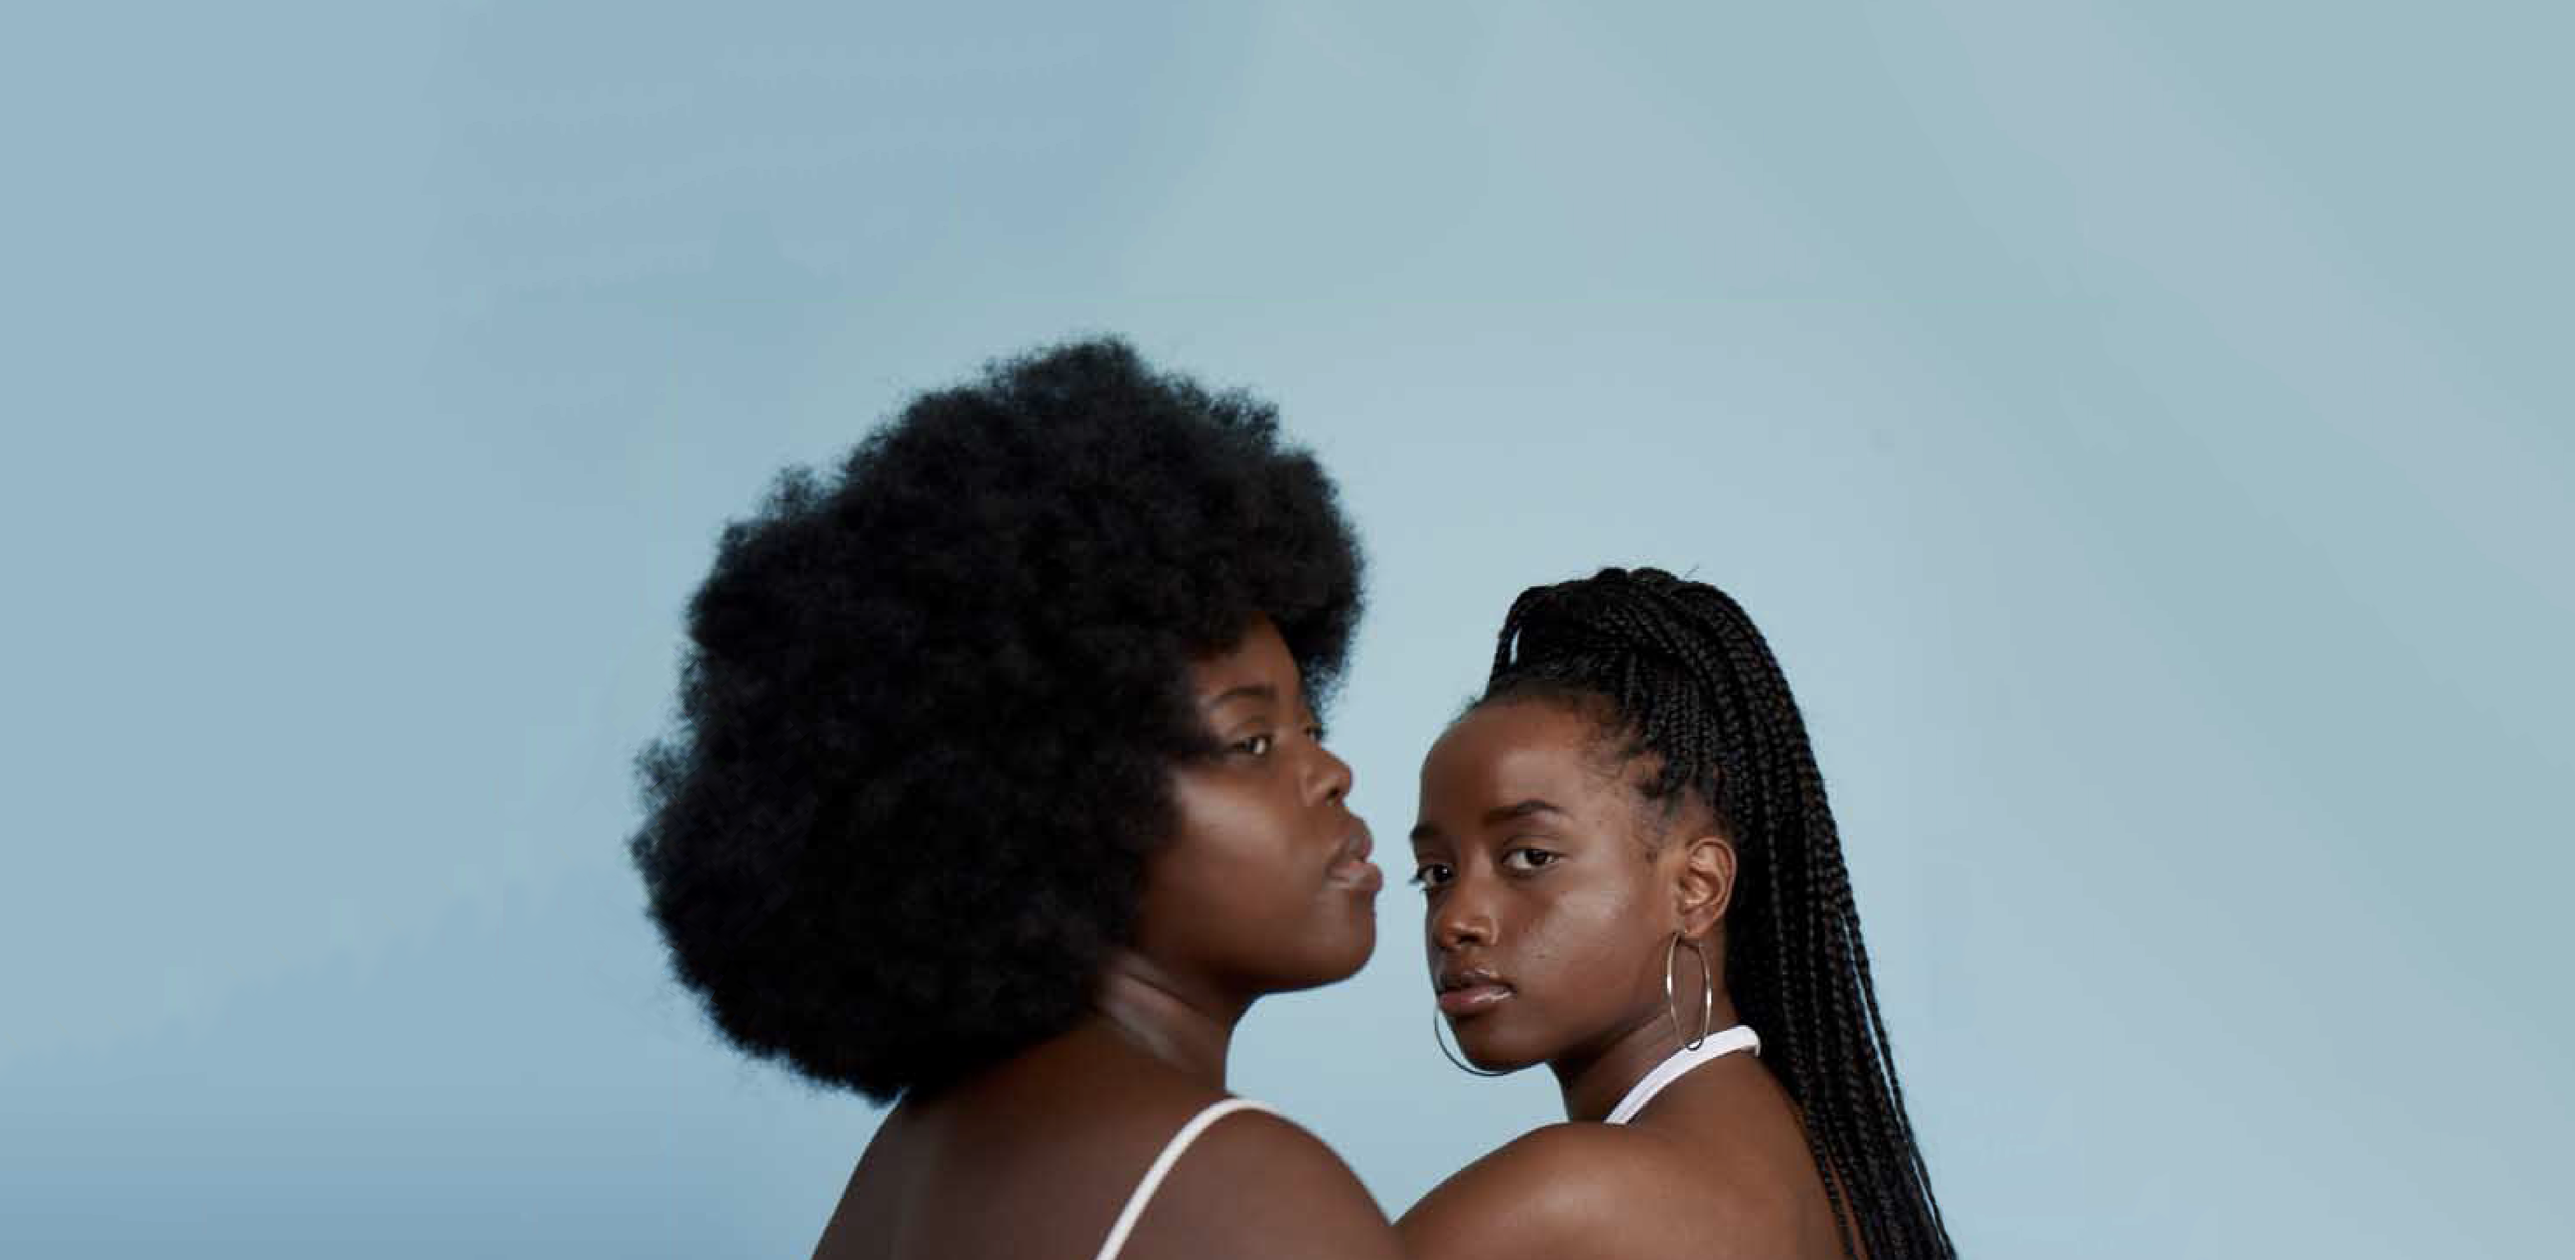
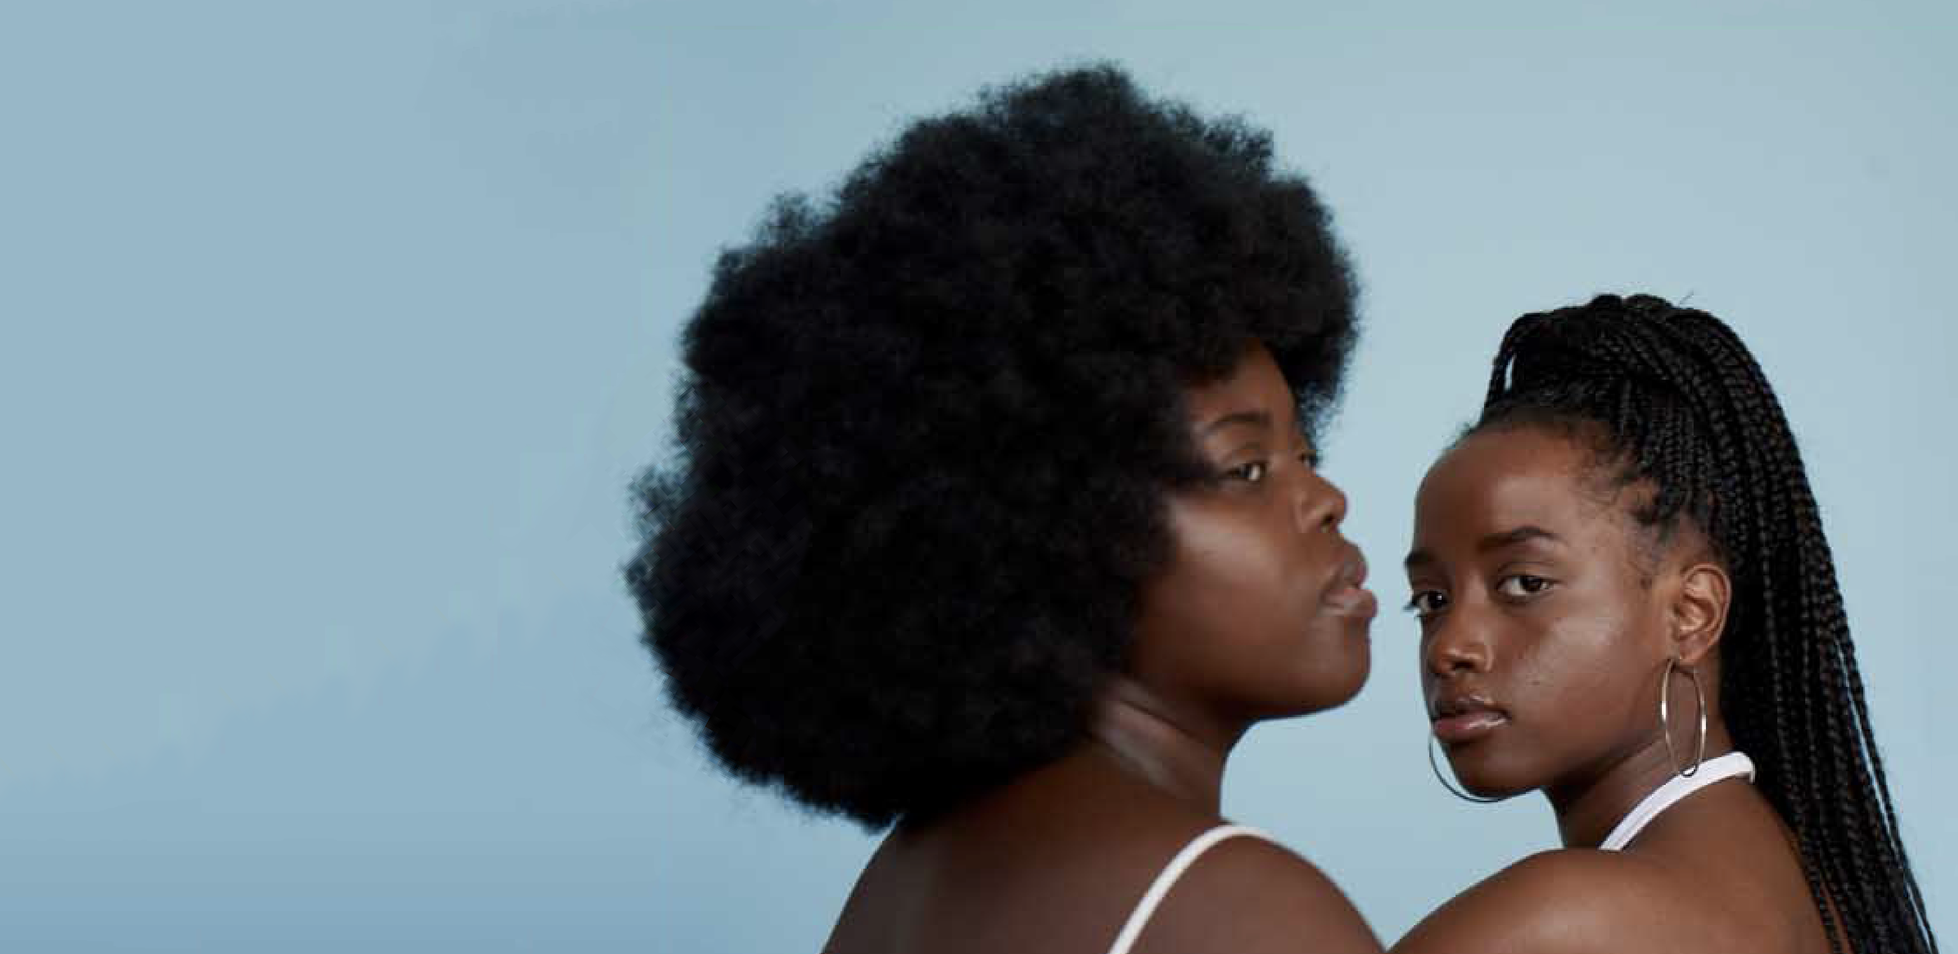
added some sccs file and AProposPage JS component

diff --git a/src/css/style.css b/src/css/style.css
@@ -146,28 +146,62 @@ body {
     font-size: 1.65rem;
     background-color: #FFF0F0; }
 
-.text-box {
+.text-box--left {
+  position: absolute;
+  top: 50%;
+  left: 18%;
+  transform: translate(-50%, -70%);
+  text-align: left; }
+
+.text-box--center {
   position: absolute;
   top: 55%;
   left: 50%;
   transform: translate(-50%, -50%);
   text-align: center;
-  font-family: 'XXThin'; }
+  position: absolute; }
 
-.heading-primary {
-  text-align: center; }
-  .heading-primary--main {
-    white-space: pre;
-    display: block;
-    text-transform: uppercase;
+.heading-primary ul {
+  list-style-type: none; }
+
+.heading-primary__main {
+  white-space: pre;
+  font-family: "BlackItalic";
+  font-size: 5.5rem;
+  text-transform: uppercase;
+  color: #052C33;
+  display: block;
+  text-align: center;
+  margin-bottom: 1.3rem; }
+  .heading-primary__main--white {
+    font-family: "BlackItalic";
     font-size: 5.5rem;
-    margin-bottom: 1.3rem;
-    font-family: "BlackItalic"; }
-  .heading-primary--sub {
+    text-transform: uppercase;
+    color: white;
+    display: block;
+    text-align: left;
+    margin-bottom: 3.3rem; }
+    .heading-primary__main--white:first-child {
+      margin-bottom: 0; }
+
+.heading-primary__sub {
+  display: block;
+  font-size: 1.65rem;
+  margin-bottom: 6rem;
+  font-family: "Roman";
+  color: #052C33; }
+  .heading-primary__sub--white {
     display: block;
     font-size: 1.65rem;
-    margin-bottom: 6rem;
-    font-family: "Roman"; }
+    margin-bottom: 0;
+    font-family: "Roman";
+    color: white; }
+
+.section-image {
+  background-image: url("../assets/pictures/image_1_propos.png");
+  height: 85vh;
+  background-position: bottom;
+  background-size: cover; }
 
 .header-white {
   height: 8rem;

diff --git a/src/sass/components/_heading-primary.scss b/src/sass/components/_heading-primary.scss
@@ -1,21 +1,33 @@
+
 .heading-primary {
+
+    ul {
+        list-style-type: none;
+    }
     
-    text-align: center;
+    &__main {
+        white-space:pre;
+        @include heading ($color-green-dark, center, 1.3rem);
+
+        &--white {
+            @include heading (white, left, 3.3rem);
+
+            &:first-child {
+                margin-bottom:0;
+            }
+        }
+    }
 
     
-    &--main {
-        white-space:pre;
-        display: block;
-        text-transform: uppercase;
-        font-size: $size-big;
-        margin-bottom: 1.3rem;
-        font-family: $font-BlackItalic;
-    }
-    &--sub{
-        display: block;
-        font-size: $size-medium;
-        margin-bottom: 6rem;
-        font-family: $font-Roman;
+    &__sub{
+        @include heading-sub (6rem, $color-green-dark);
+
+        &--white{
+            @include heading-sub (0, white);
+
+         
+        }
     }
 }
+
 

diff --git a/src/sass/abstracts/_mixins.scss b/src/sass/abstracts/_mixins.scss
@@ -15,3 +15,30 @@
     text-align: center;
     
 }
+
+@mixin absolute-left ($left){
+    position: absolute;
+    top: 50%;
+    left: $left;
+    transform: translate(-50%, -70%);
+    text-align: left;
+    
+}
+
+@mixin heading ($color, $alignement, $marginB){
+    font-family: $font-BlackItalic;
+    font-size: $size-big;
+    text-transform: uppercase;
+    color:($color);
+    display:block;
+    text-align:($alignement);
+    margin-bottom:($marginB);
+}
+
+@mixin heading-sub ($marginB, $color) {
+    display: block;
+    font-size: $size-medium;
+    margin-bottom: ($marginB);
+    font-family: $font-Roman;
+    color: ($color)
+}

diff --git a/src/components/Booking.js b/src/components/Booking.js
@@ -16,10 +16,10 @@ export default function Booking() {
         
     </div>
 
-        <div class="text-box">
+        <div class="text-box--center">
             <h1 class="heading-primary">
-                <span class=" heading-primary--main">merci pour ta réservation !</span>
-                <span class="heading-primary--sub">Tu as reçu un mail de confirmation dans ta boîte mail</span>
+                <span class=" heading-primary__main">merci pour ta réservation !</span>
+                <span class="heading-primary__sub">Tu as reçu un mail de confirmation dans ta boîte mail</span>
 
             </h1>
         

diff --git a/src/App.js b/src/App.js
@@ -3,12 +3,14 @@ import { Route, Switch } from 'react-router-dom'
 import './css/style.css';
 
 import Booking from './components/Booking'
+import APropos from './components/APropos';
 
 const App = () => {
   return (
     <div className="App">
   
-      <Booking />
+      {/* <Booking /> */}
+      <APropos />
 
   
     </div>

diff --git a/src/sass/components/_text-box.scss b/src/sass/components/_text-box.scss
@@ -1,7 +1,18 @@
 
 
 .text-box {
-    @include absolute-center (55%);
-    font-family: 'XXThin';
+    
+    &--left {
+        
+        @include absolute-left (18%);
+        
+    }
+    
+    &--center {
+       
+        @include absolute-center (55%);
+        position: absolute;
+    }
+  
     
 }

diff --git a/src/sass/main.scss b/src/sass/main.scss
@@ -15,6 +15,7 @@
 @import "components/button";
 @import "components/text-box";
 @import "components/heading-primary";
+@import "components/section-image";
 
 @import "layout/header-white";
 
